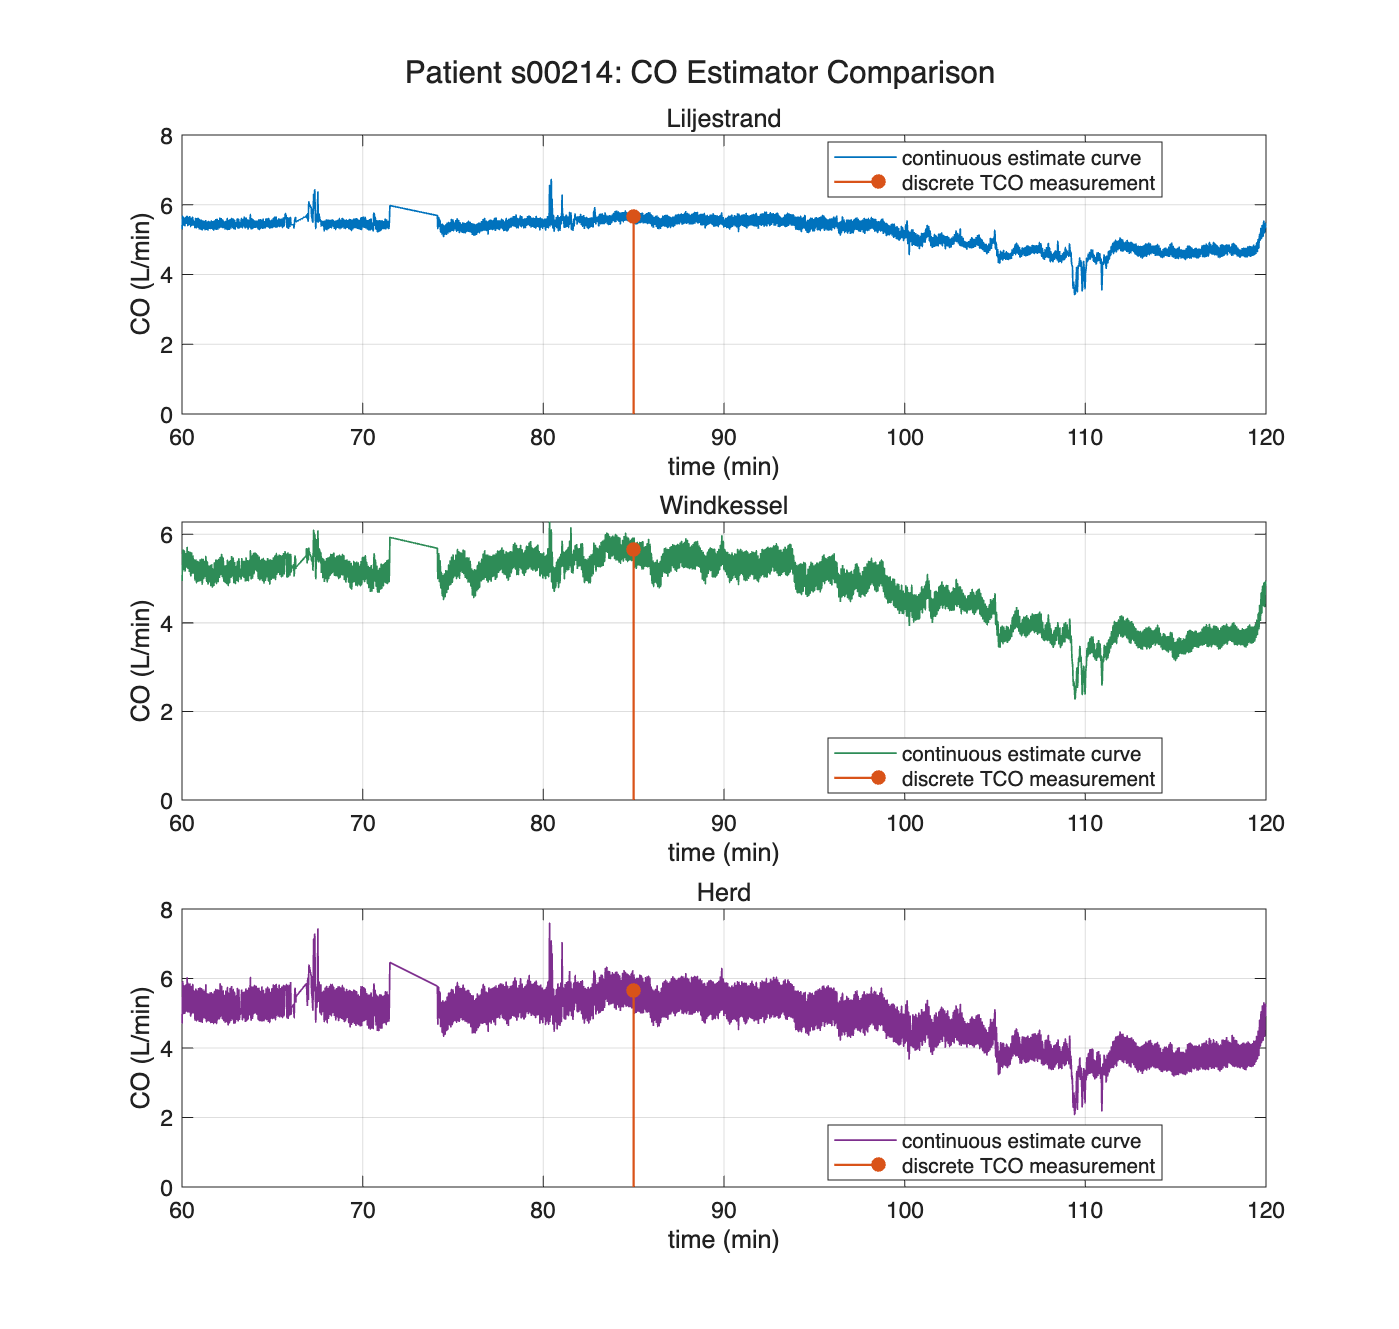
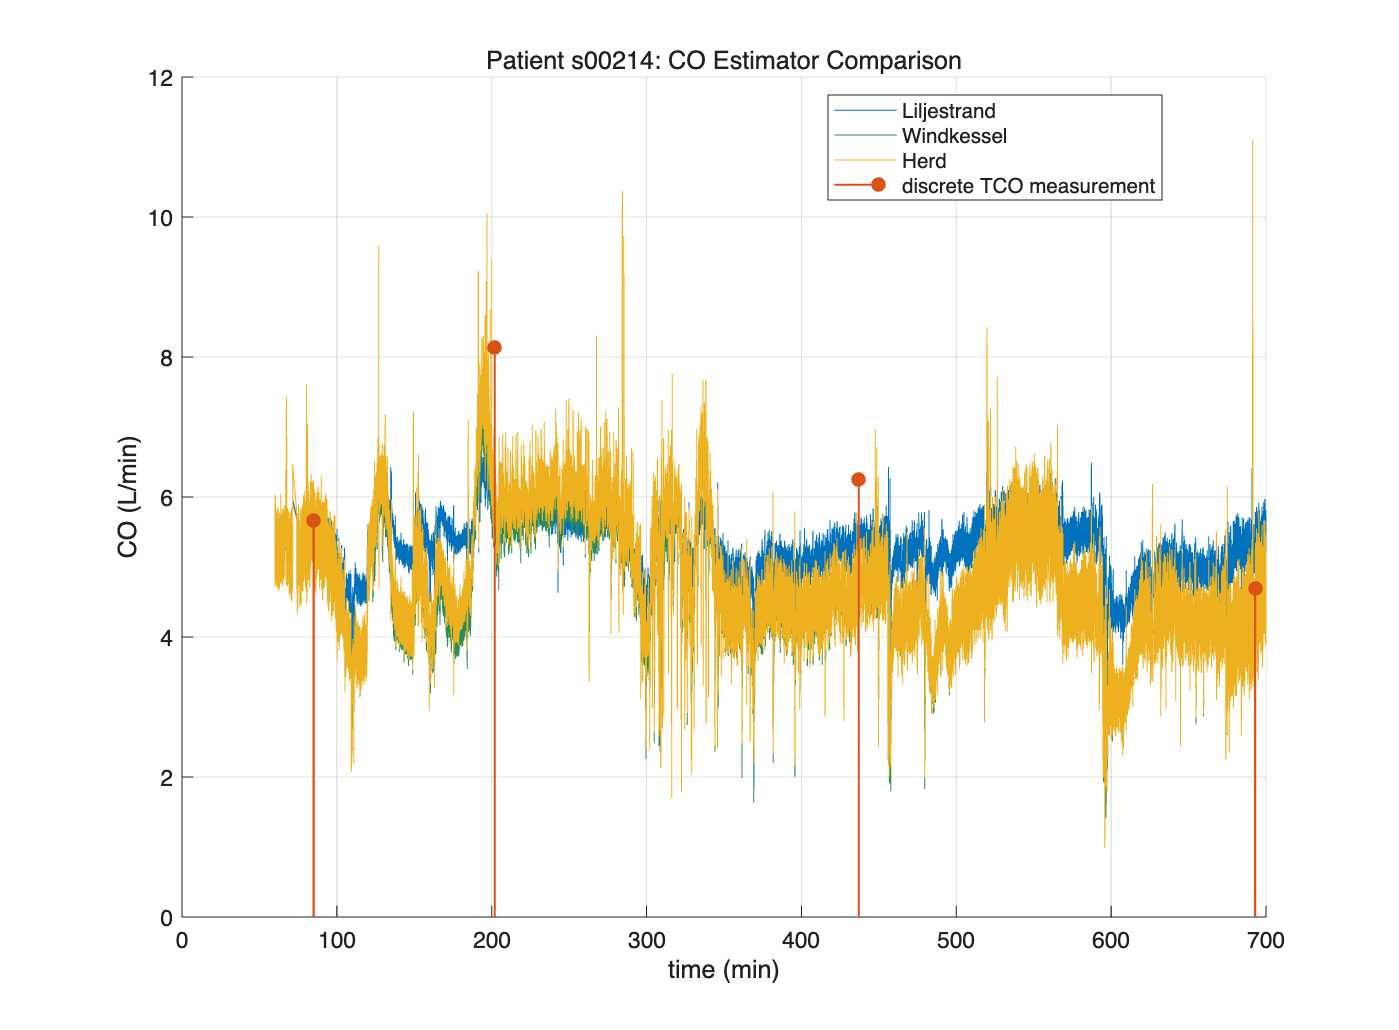
Add files via upload
Made some changes to Q4's code

diff --git a/Group19_COProject_Q4.m b/Group19_COProject_Q4.m
@@ -9,7 +9,7 @@ addpath('PhysioToolkitCardiacOutput_MatlabCode/3estimate');
 
 Patients = {'s00020','s00138','s00214'};
 StartHours = [0,1,1];
-DurationHours = [12,1,1];
+DurationHours = [12,12,12];
 
 EstimatorIDs = [5,2,6];
 
@@ -60,15 +60,17 @@ for p = 1:3
 
     
     
+
     %% Estimate and calibrate CO
 
     Colors = [0.0000 0.4470 0.7410;   % Blue: Liljestrand
               0.1800 0.5500 0.3400;   % Green: Windkessel
-              0.4940 0.1840 0.5560];  % Purple: Herd
+              0.9290 0.6940 0.1250];  % Yellow: Herd
 
     EstimatorNames = {'Liljestrand','Windkessel','Herd'};
 
-    figure(p);
+    figure;
+    hold on;
 
     for a = 1:3
 
@@ -78,43 +80,36 @@ for p = 1:3
         % Time in minutes
         t_CO = t_CO + StartHours(p)*60;
 
-        %% C2 Calibration
-
+        % C2 calibration
         window = (t_CO > t_first_valid-1) & (t_CO <= t_first_valid);
 
         x_1 = median(CO(window));
-
         k = r_1/x_1;
         CO_cal = k*CO;
 
-        %% Plot CO and TCO
-
-        subplot(3,1,a);
-
-        plot(t_CO,CO_cal,'Color',Colors(a,:),'LineWidth',0.8);
-        hold on;
-
-        stem(time_TCO_valid,TCO_valid,'filled','Color',[0.8500 0.3250 0.0980],'LineWidth',1.0);
-
-        xlabel('time (min)');
-        ylabel('CO (L/min)');
-        title(EstimatorNames{a});
-
-        legend('continuous estimate curve','discrete TCO measurement','Location','best');
-
-        grid on;
-        hold off;
+        % Plot CO estimate
+        plot(t_CO,CO_cal,'Color',Colors(a,:), 'LineWidth',0.5);
 
     end
 
-    %% Figure title and size
+    % Plot discrete TCO measurements
+    stem(time_TCO_valid,TCO_valid,'filled', 'Color',[0.8500 0.3250 0.0980], 'LineWidth',1.0);
 
-    sgtitle(['Patient ',Patients{p},': CO Estimator Comparison']);
+    xlabel('time (min)');
+    ylabel('CO (L/min)');
+    title(['Patient ',Patients{p},': CO Estimator Comparison']);
+
+    xlim([0 700]);
+    xticks(0:100:700);
+
+    legend('Liljestrand','Windkessel','Herd', 'discrete TCO measurement','Location','best');
+
+    grid on;
 
     fig = gcf;
-    fig.Position(4) = 850;
+    fig.Position(4) = fig.Position(4) + 120;
 
-    %% Save figure
+    hold off;
 
     saveas(gcf,['Q4_CO_',Patients{p},'.png']);
 
